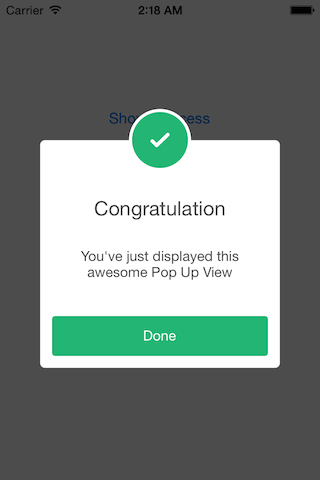
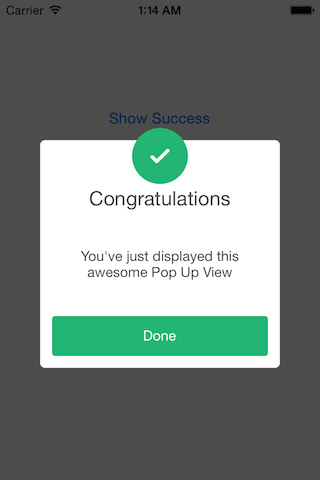
Spelling

Changed region(s): [[0.2812, 0.2188, 0.7188, 0.4688], [0.4375, 0.0, 0.5938, 0.0312]]

diff --git a/Example/SCLAlertViewExample/ViewController.swift b/Example/SCLAlertViewExample/ViewController.swift
@@ -8,7 +8,7 @@
 
 import UIKit
 
-let kSuccessTitle: NSString = "Congratulation"
+let kSuccessTitle: NSString = "Congratulations"
 let kErrorTitle: NSString = "Connection error"
 let kNoticeTitle: NSString = "Notice"
 let kWarningTitle: NSString = "Warning"
